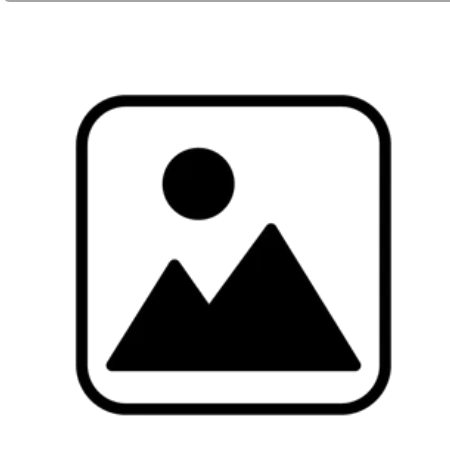
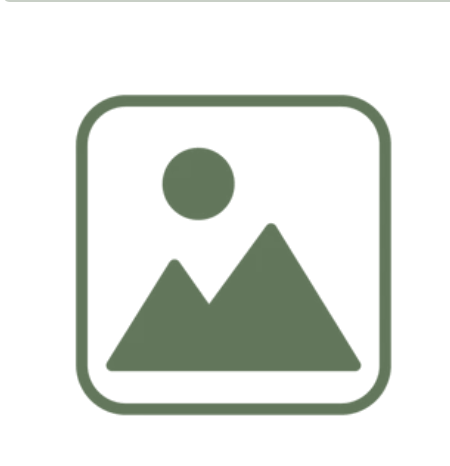
下午3:34：選房小圖改成和不選那列一樣的綠色

Changed region(s): [[0.1556, 0.1803, 0.8711, 0.9013], [0.0311, 0.0, 1.0, 0.03], [0.3422, 0.3004, 0.5289, 0.4807]]

diff --git a/sw.js b/sw.js
@@ -1,5 +1,5 @@
-const CACHE = "tongjie-app-v1467";
-const BUILD = "20260925-0952";
+const CACHE = "tongjie-app-v1468";
+const BUILD = "20260925-0953";
 const FILES = ["/", "/index.html", "/app.css", "/app.js", "/work-scroll.css", "/work-enhance.js", "/manifest.json", "/icon-192.png", "/icon-512.png", "/icon-maskable-512.png"];
 self.addEventListener("install", e => {
   self.skipWaiting();
